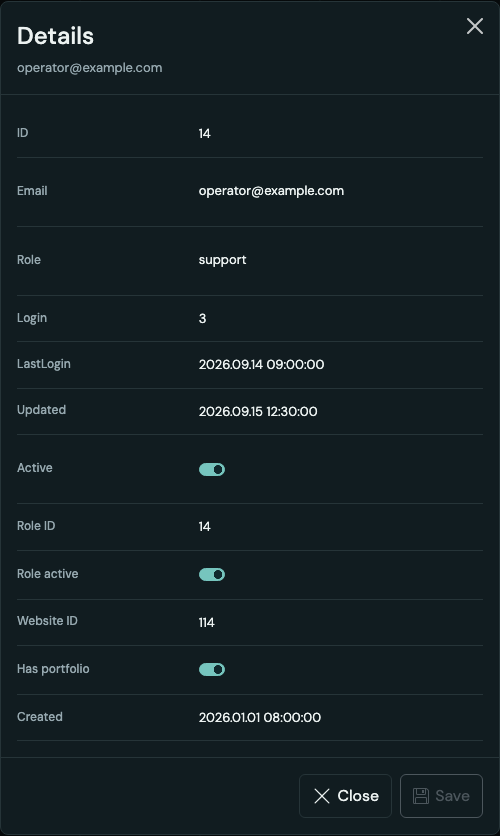
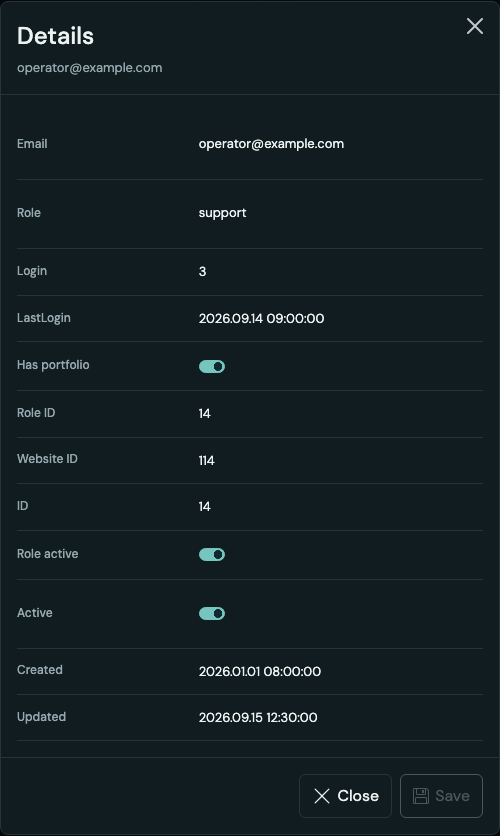
#fix Put commonly edited management fields first
Group each detail form by purpose, place read-only reference facts after editable values, and keep Active, Created and Updated at the end. User Role active immediately precedes Active.

Keep main table columns unchanged. Update documentation and synthetic screenshots. Verified frontend check and six existing mobile/desktop editing browser flows; no backend or database changes.

diff --git a/frontend/src/pages/management/model/management-view.ts b/frontend/src/pages/management/model/management-view.ts
@@ -11,68 +11,69 @@ type ManagementFields = {
   )[];
 };
 
+// Editable values come first, related read-only facts follow, and Active / Created / Updated stay last.
 export const fields: Record<ManagementResource, string[]> = {
   roles: [
-    'id',
     'role',
-    'user_count',
+    'description',
     'is_default',
     'is_create',
     'is_read',
     'is_update',
     'is_delete',
     'is_manage_sites',
-    'is_manage_users',
     'is_manage_roles',
+    'is_manage_users',
+    'user_count',
+    'id',
     'is_active',
-    'description',
     'createtime',
     'updatetime',
   ],
   users: [
-    'id',
     'email',
     'role',
     'login_count',
     'last_login',
-    'updatetime',
-    'is_active',
-    'role_id',
-    'role_is_active',
-    'site_id',
     'has_site',
+    'role_id',
+    'site_id',
+    'id',
+    'role_is_active',
+    'is_active',
     'createtime',
+    'updatetime',
   ],
   sites: [
-    'id',
     'user',
     'first_name',
     'family_name',
     'nick_name',
     'edu_code',
-    'profile_name',
-    'has_site',
+    'program',
     'brand_title',
     'brand_title_sub',
-    'is_published',
-    'has_translation',
-    'is_default',
-    'owner_is_active',
-    'program',
-    'locale',
-    'copyright_year',
     'intro_content',
-    'footer_content',
+    'profile_content',
     'email',
     'linkedin',
     'github',
     'medium',
-    'chat_icon',
     'chat_title',
     'chat_title_sub',
+    'chat_icon',
     'chat_content',
-    'profile_content',
+    'footer_content',
+    'copyright_year',
+    'is_published',
+    'is_default',
+    'profile_name',
+    'has_site',
+    'has_translation',
+    'locale',
     'site_id',
+    'id',
+    'owner_is_active',
     'createtime',
     'updatetime',
   ],

diff --git a/frontend/README.md b/frontend/README.md
@@ -652,13 +652,13 @@ The platform table offers only ID, Account, Profile (checkbox), Publish (checkbo
 
 Actions 全部使用 pencil-square Edit icon 開啟詳情。可編輯值點選後使用共用 InlineField 編輯，布林直接切換；ID、時間、統計與衍生資料保持唯讀。Save 初始灰色停用，有有效修改後亮綠，Close 變紅；還原值後恢復初始狀態。Save 只確認視窗內草稿，關閉重開回到 query 資料，不發送更新 API。欄位 editor 與 DTO 驗證集中於 management-edit，共享元件不擁有 management 規則。
 
-Actions 詳情順序由 `pages/management/model/management-view.fields.sites` 定義，與主表欄位清單分開，兩者共用相同的欄位 value／renderer factory。詳情固定使用指定英文標籤；Profile data、Publish、Translation 是 checkbox，Default、Active 是 toggle。三頁詳情的標籤、文字、時間、checkbox／toggle 靠左；底部 Close／Save 按鈕群組靠右，Close 使用 Bootstrap x-lg icon，操作按鈕保留相同的 44px 最小高度。桌面保留標籤／值雙欄，手機沿用上下排列。
+三頁 Actions 詳情順序由 `pages/management/model/management-view.fields` 定義，與主表欄位清單分開，兩者共用相同的欄位 value／renderer factory。可編輯欄位依用途放在上方：Platform 為基本資料／品牌內容、聯絡社群、聊天、頁尾與發布設定；Role 為名稱／描述、預設與權限；User 為 Email／Role。唯讀資訊放在後段，Active、Created、Updated 固定為最後三項；User 的 Role active 位於 Active 前。詳情固定使用指定英文標籤；Profile data、Publish、Translation 是 checkbox，Default、Active 是 toggle。三頁詳情的標籤、文字、時間、checkbox／toggle 靠左；底部 Close／Save 按鈕群組靠右，Close 使用 Bootstrap x-lg icon，操作按鈕保留相同的 44px 最小高度。桌面保留標籤／值雙欄，手機沿用上下排列。
 
 User 主表固定使用上表的八個英文標籤，以登入 Email 識別，不另列 Account。Email 使用逐欄 `truncate: false`，完整顯示並可換行；Details、勾選標籤與刪除確認也使用 Email。User API 直接讀取 `auth_user.email`，不返回公開網址 handle 或衍生帳號名稱。Login 是 `login_count`，LastLogin 是 `last_login`；Active toggle 直接呈現這一列的 `auth_user.is_active`，不合併角色啟用或網站存在狀態。Columns 只切換主表的七個資料欄位，Role active、Has portfolio、Role ID、Website ID 與 Created 保留在完整的十二項 Actions 詳情中。`visible`／`columnLabels` 定義各資源的主表欄位與標籤，`fields`／`detailLabels` 定義完整詳情；兩者共用同一個 value／renderer factory，不另外複製表格程式。欄位 ID 清單使用 ManagementRows 的 key 型別檢查，僅 Platform 額外允許衍生的 profile_name；新增欄位若拼錯名稱會在 typecheck 失敗。ManagementTable 擁有 query、欄位組合與列選取，ManagementDetails 只接受 row、columns、name、copy 與 onClose，擁有詳情視窗的本地草稿與 Save 狀態；shared DataTable 仍不依賴任何 management 型別或 API。
 
 Role 主表固定使用上表的十三個英文標籤，Create、Read、Update、Delete、Site、Users、Roles、Default、Active 共九個欄位均使用唯讀 toggle，直接呈現對應的角色旗標。主表 Users 是 `is_manage_users` 權限；Actions 的 Users 是 `user_count`，顯示使用此角色的帳號數。Columns 只切換主表的十二個資料欄位；Description、Created 與帳號數保留在詳情中。
 
-Role Actions 的十五項順序為：ID、Role、Users、Default、Create、Read、Update、Delete、Manage Site、Manage Users、Manage Roles、Active、Description、Created、Updated。Manage Site／Users／Roles 與主表 Site／Users／Roles 共用相同權限值；時間沿用 UTC 的 `YYYY.MM.DD HH:mm:ss` 格式。
+Role Actions 的十五項順序為：Role、Description、Default、Create、Read、Update、Delete、Manage Site、Manage Roles、Manage Users、Users、ID、Active、Created、Updated。Manage Site／Users／Roles 與主表 Site／Users／Roles 共用相同權限值；時間沿用 UTC 的 `YYYY.MM.DD HH:mm:ss` 格式。
 
 Role／User 管理的 Role 欄均設定共用 `filterStyle: 'dropdown-list'`，使用 **Dropdown list filter**。只從 DataTable 已載入資料整理去重選項，不再額外讀取全部 Role；同一表格保留已出現值，避免篩選後選項消失。七色 pastel chip 自動分配且在表格生命週期中維持固定，標籤右側 check 表示選取。上方小字 Select(N)／Deselect(N) 處理符合搜尋的選項，搜尋只縮小清單，下方 divider 後為共用升序／降序／清除排序。未選取不限制資料，選取以 in 在資料庫 COUNT 與分頁前執行；取消最後一個值清除 predicate。其餘欄位維持原本型別篩選，頁面只需一個欄位配置，沒有 Role 專用 UI 或選項 API。共用元件也支援 owner 注入靜態 options 或分頁 load。新增裝飾圖示沿用 Bootstrap SVG mask，不放入 JavaScript；目前整包上限為 JS 360,000／CSS 61,700 bytes，由建置驗證實際資產，未新增套件。
 

diff --git a/frontend/src/shared/ui/README.md b/frontend/src/shared/ui/README.md
@@ -813,6 +813,7 @@ trash 用 Bootstrap CSS mask，不傳不存在的 IconName：
 
 - 欄名／值／checkbox／switch 全部靠左；footer 靠右，Close 有 icon。
 - 可用另一組完整 columns，無須把所有資料放進列表。
+- 三張管理表的詳情順序集中於 `model/management-view.ts` 的 `fields`：Platform 先基本資料／品牌內容，再聯絡社群、聊天、頁尾與發布設定；Role 先名稱／描述，再預設與權限；User 先 Email／Role。唯讀資訊接在可編輯欄位後，Active／Created／Updated 固定為最後三項；User 的 Role active 緊接在 Active 前。
 - Actions 的 Edit icon 開啟詳情；文字值點選後直接編輯，checkbox／switch 直接切換。
 - 它屬於 management page，不是 DataTable prop 或資料編輯引擎。
 - Save 初始灰色停用；值與草稿基準不同時亮綠、Close 變紅。還原所有值後恢復初始狀態。無效值不能 Save。
